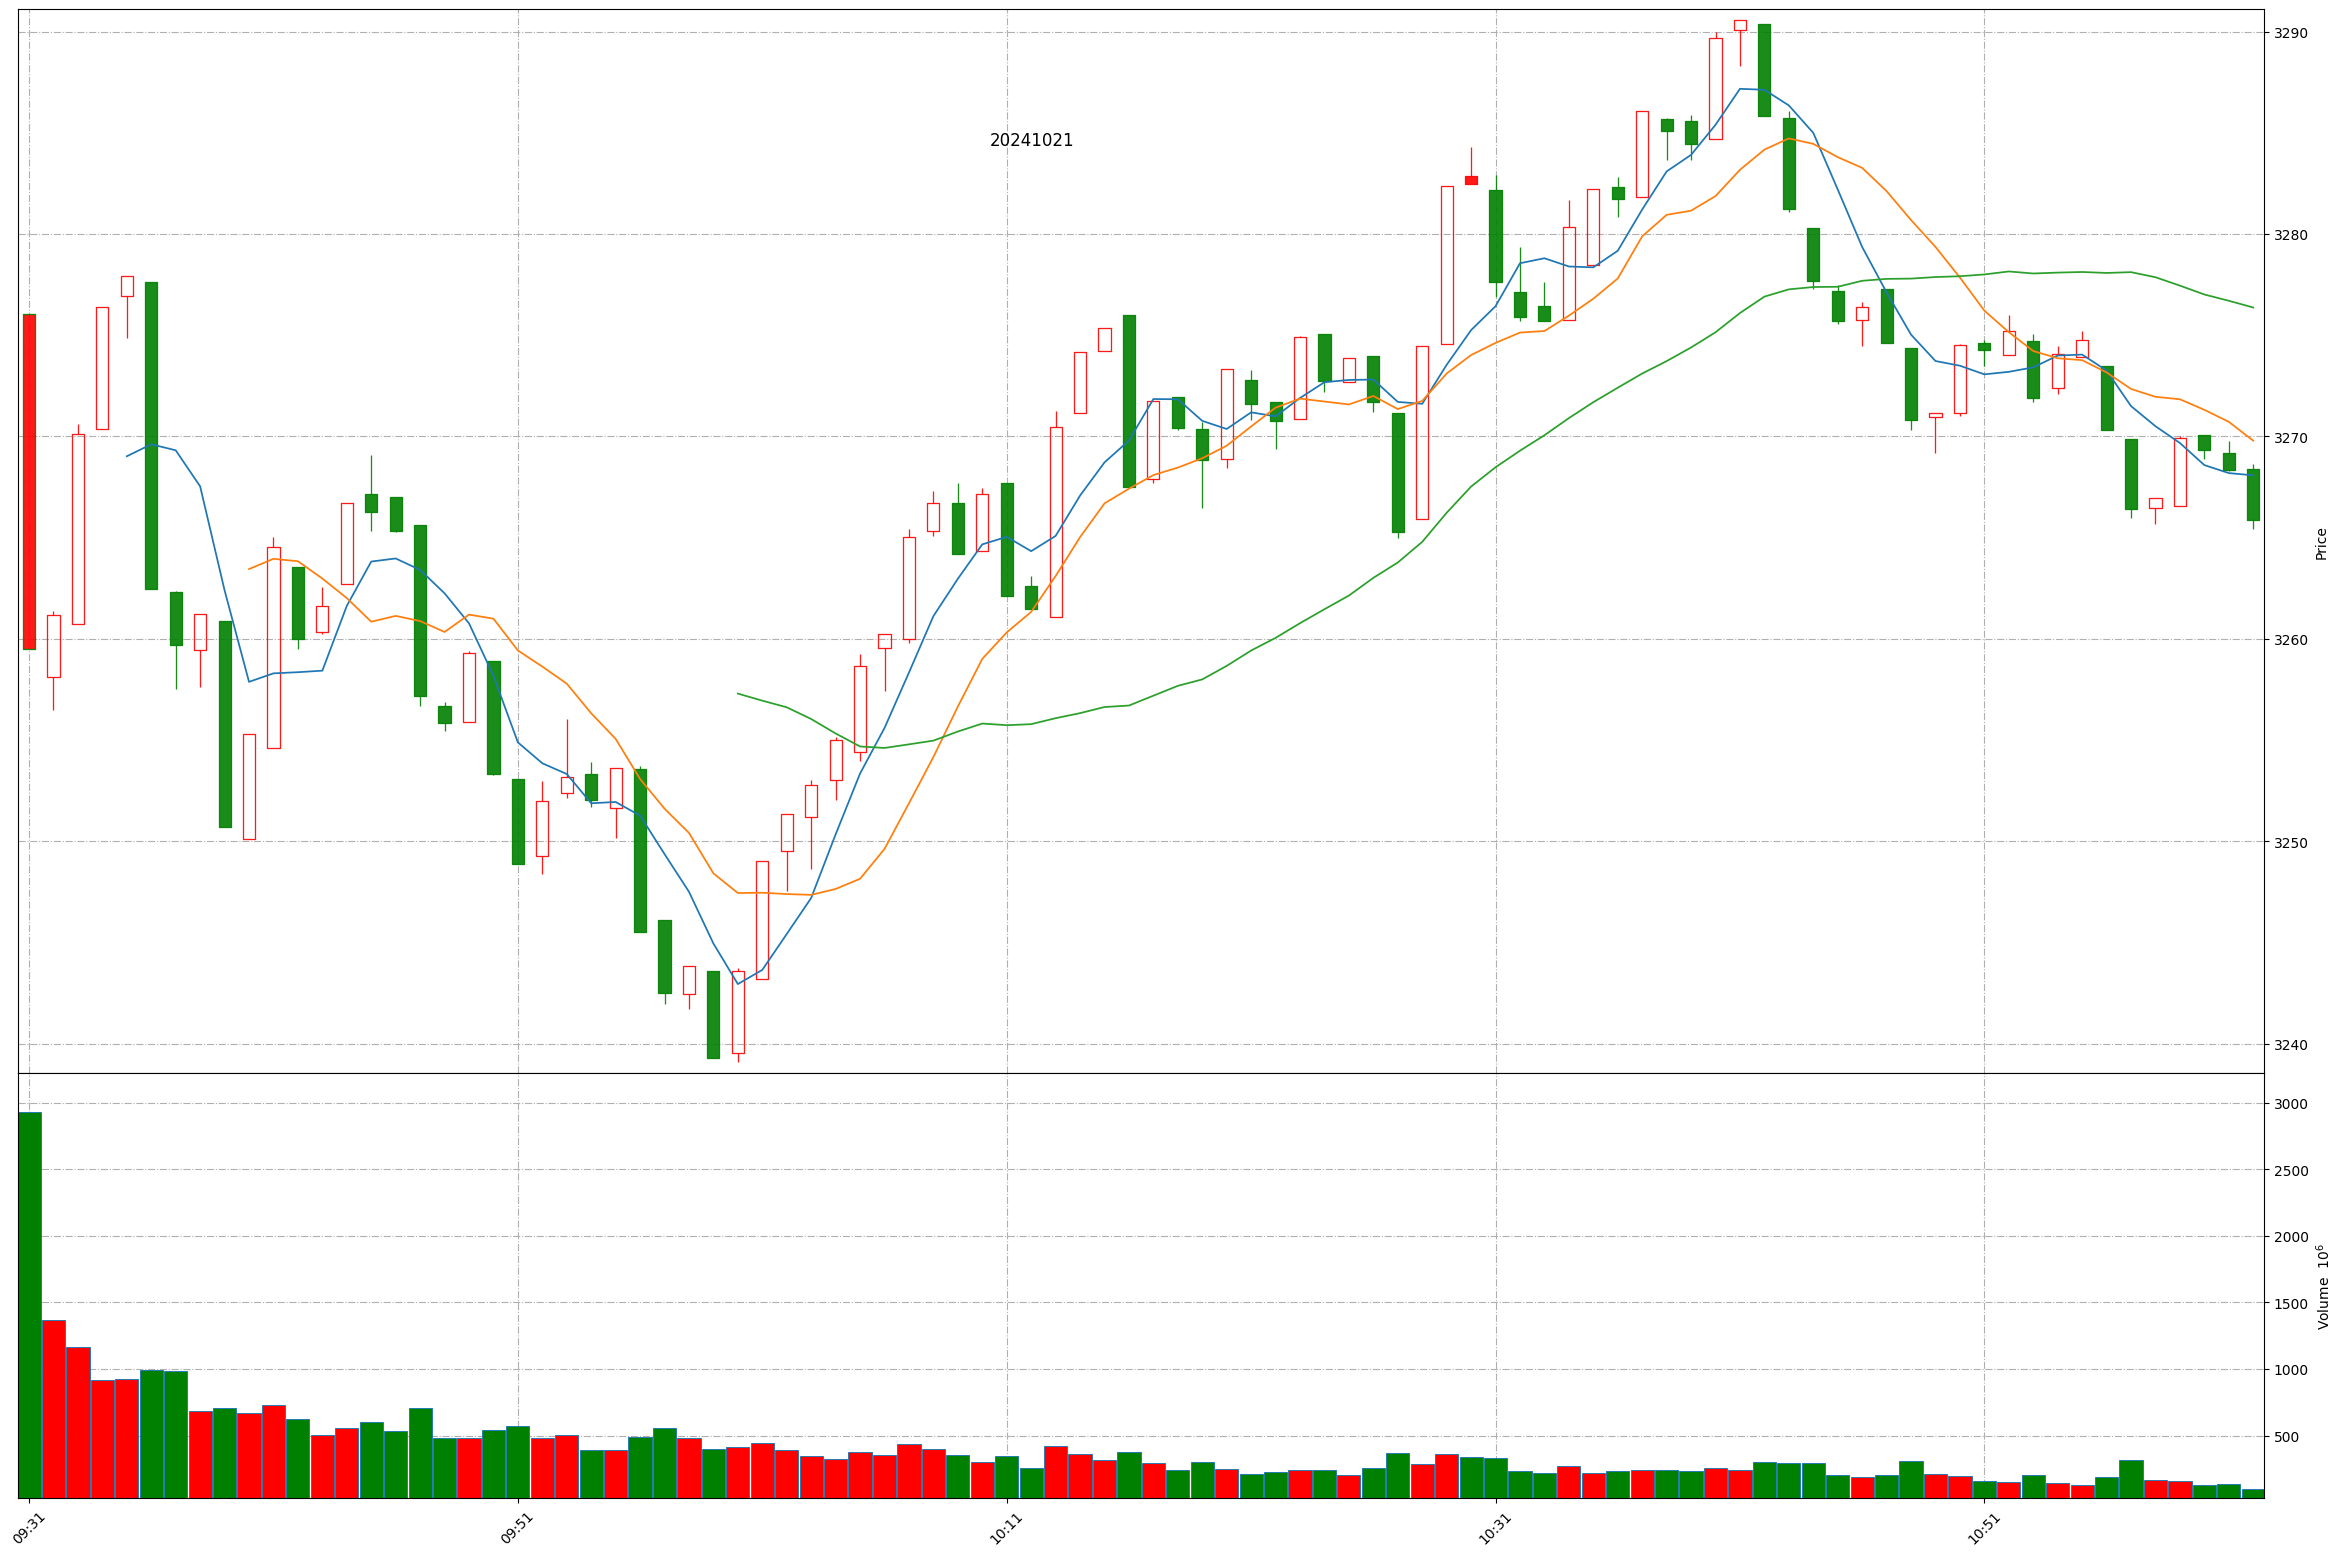
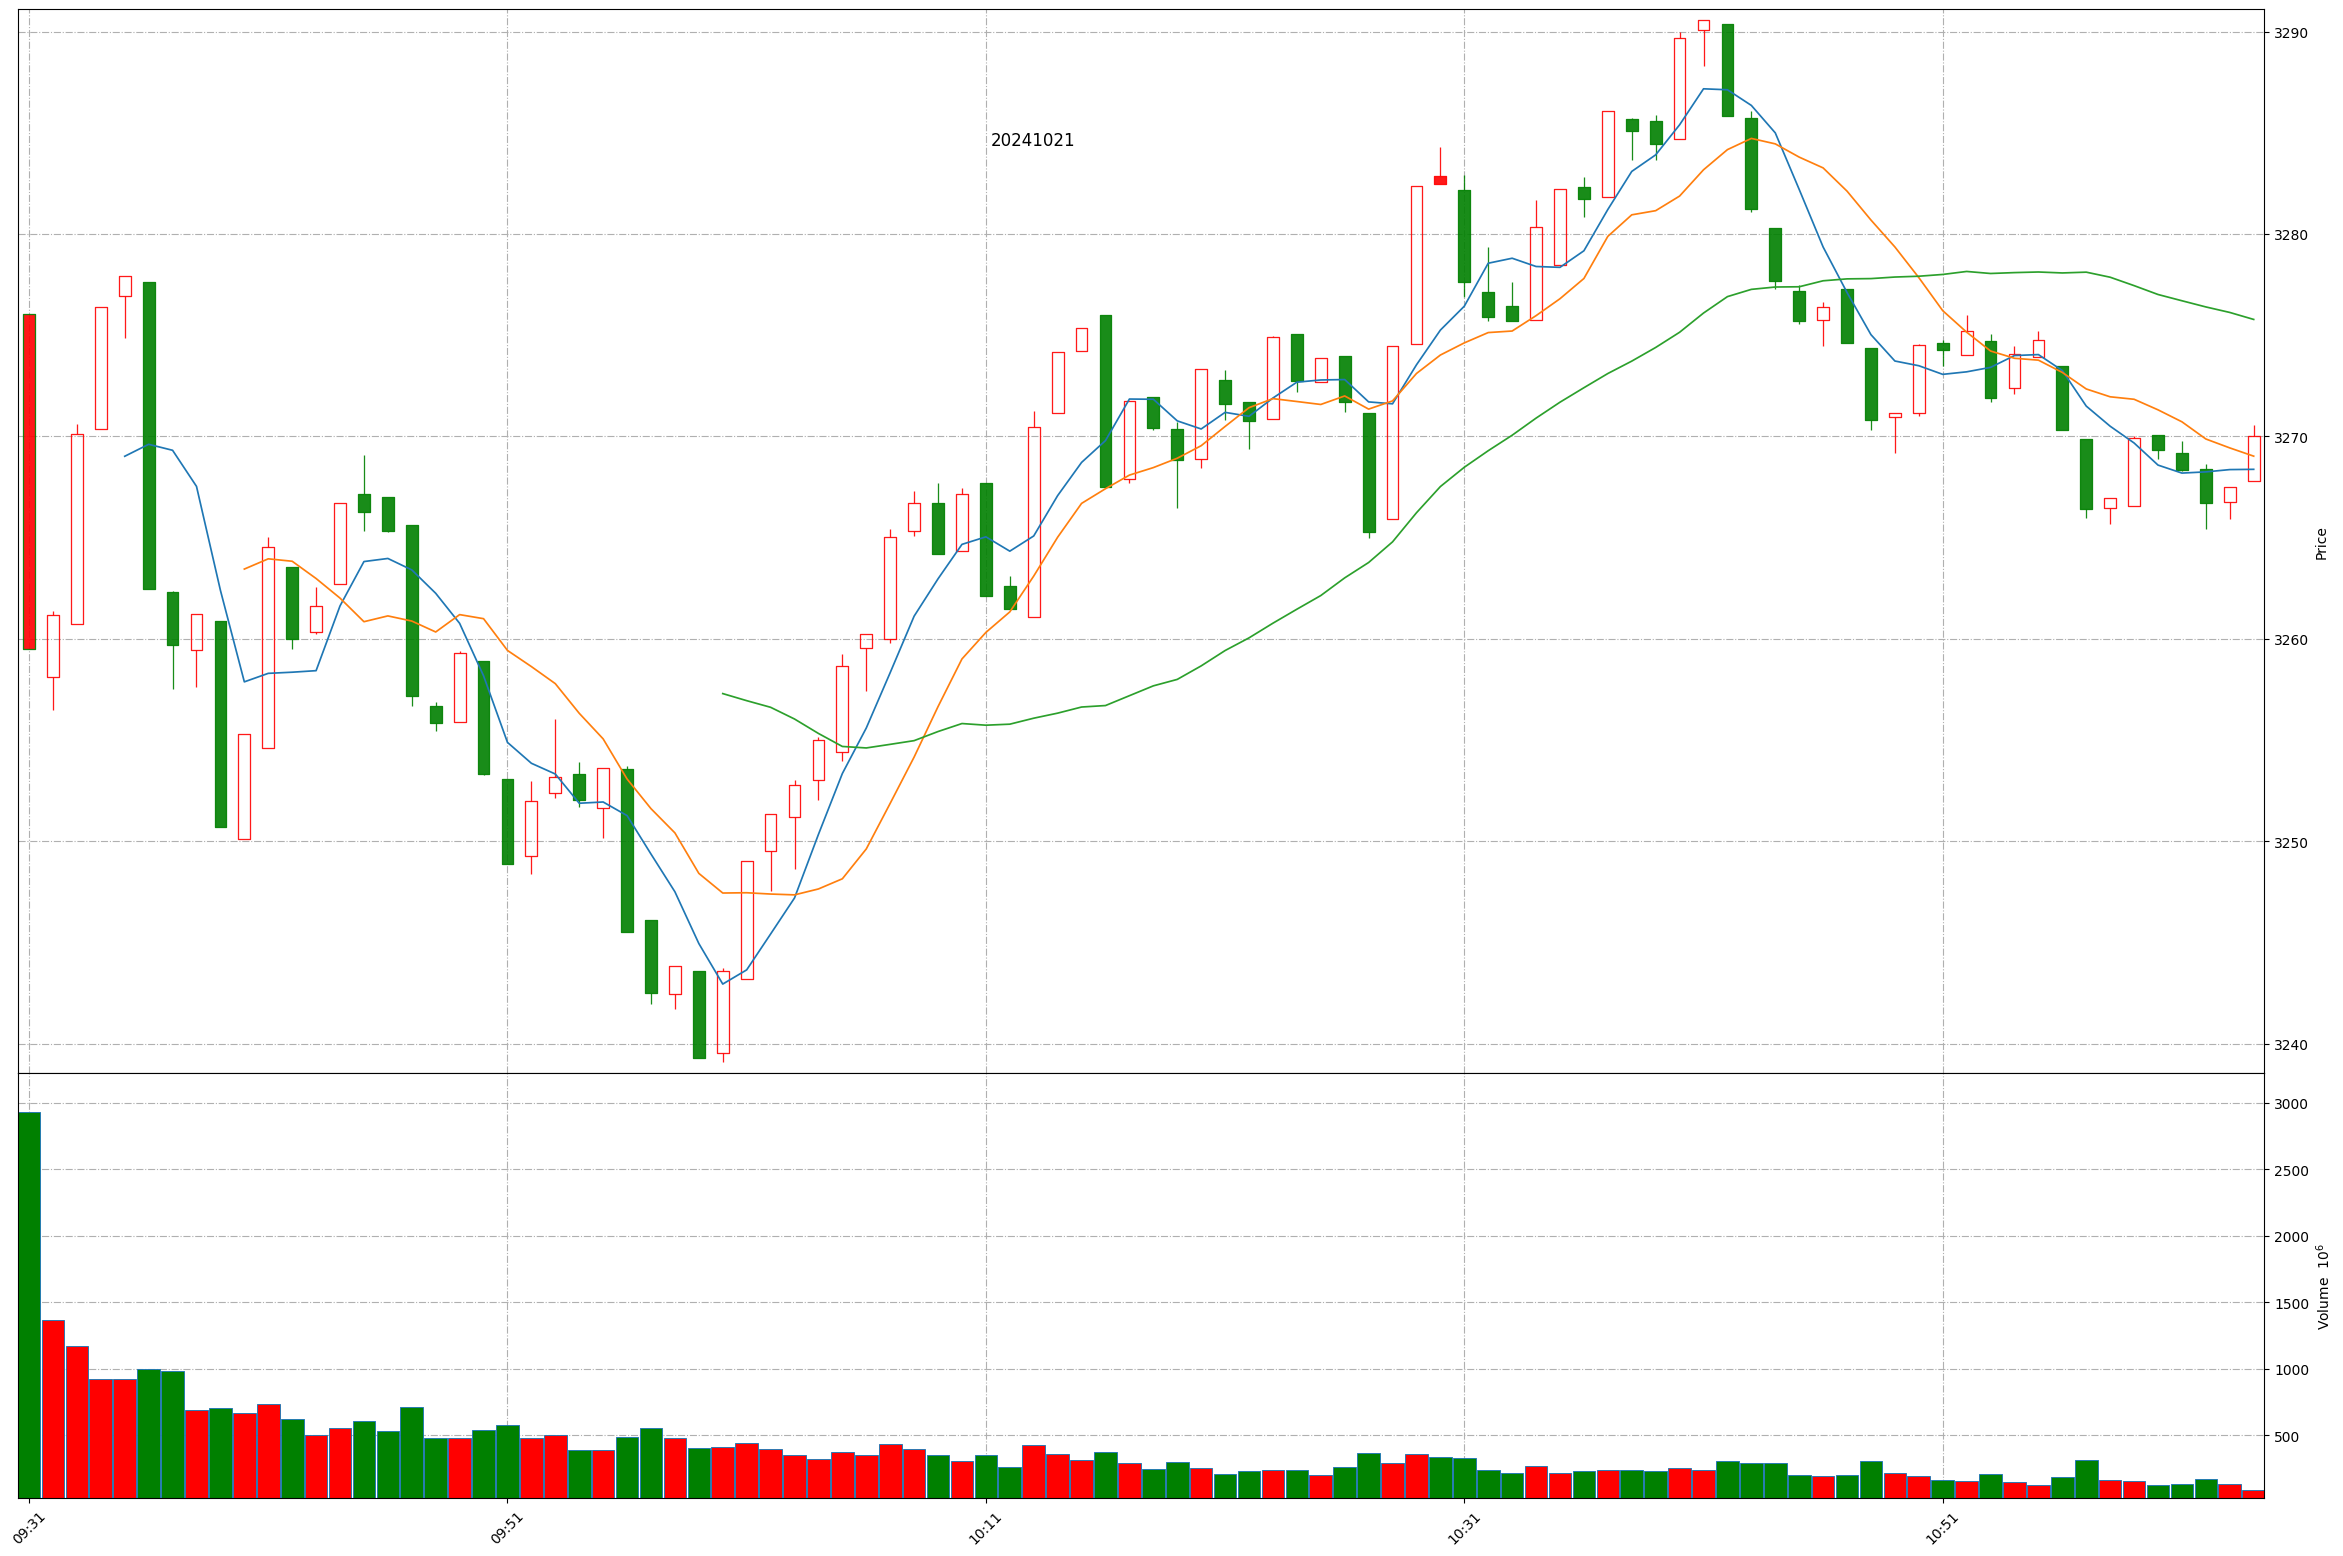
Github action update at 2024-10-21 11:03:47.

diff --git a/README.md b/README.md
@@ -1,11 +1,11 @@
 
 # Daily-A-share-market-quotes 每日 A 股指数（5min 更新）- 20241021
 
-### 上证指数 20241021 11:1
+### 上证指数 20241021 11:3
 ![](./fig/2024/10/20241021-sh000001.png)
 
-### 深证成指 20241021 11:1
+### 深证成指 20241021 11:3
 ![](./fig/2024/10/20241021-sz399001.png)
 
-### 北证50 20241021 11:1
+### 北证50 20241021 11:3
 ![](./fig/2024/10/20241021-bj899050.png)
